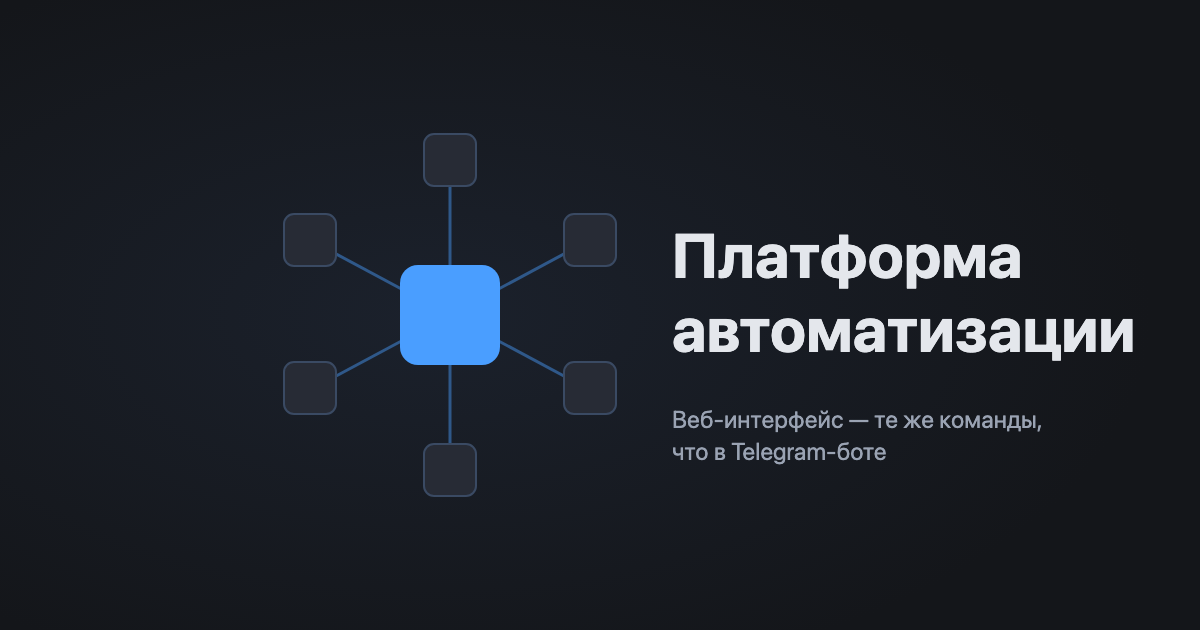
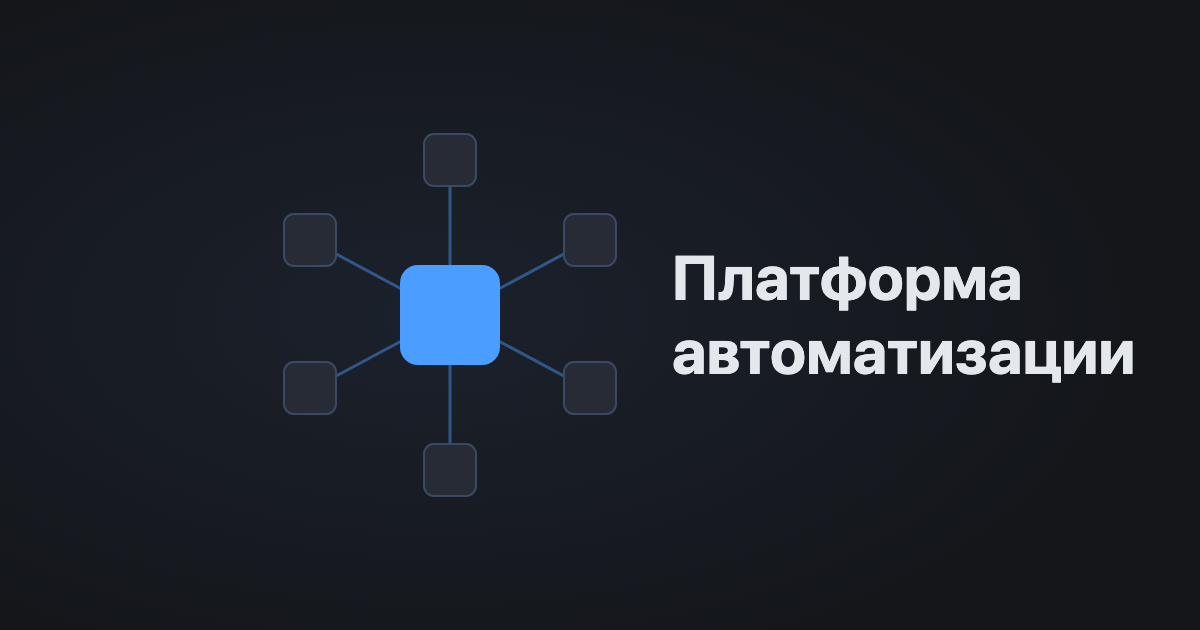
Drop the tagline from the share preview image
'Веб-интерфейс — те же команды, что в Telegram-боте' read as clutter on a
preview card whose mark and name already say enough. The image now carries
just the name beside the mark, centred against the diagram.

Changed region(s): [[0.555, 0.3619, 0.9558, 0.6032], [0.555, 0.6333, 0.8633, 0.754]]

diff --git a/docs/PROJECT_STATE.md b/docs/PROJECT_STATE.md
@@ -1,7 +1,7 @@
 # Project State
 
 ## Current version
-v0.46.0
+v0.47.0
 
 ## Project goal
 Automation Platform is a personal automation system built around an extensible plugin architecture, reachable over Telegram and a web interface.
